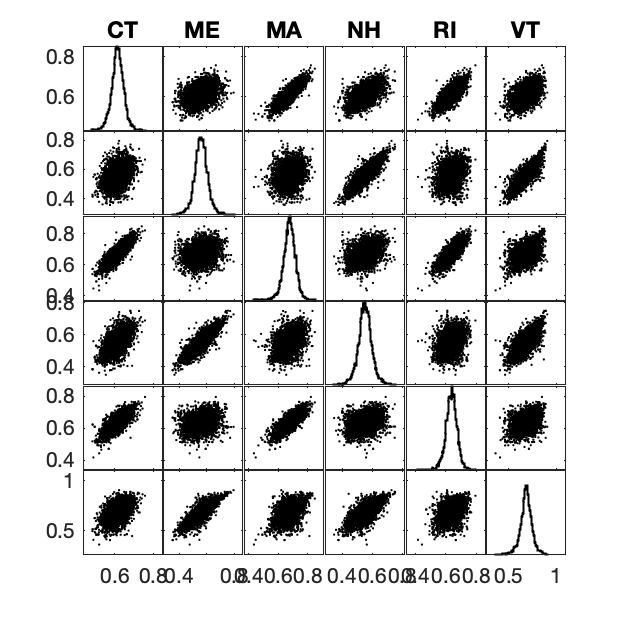
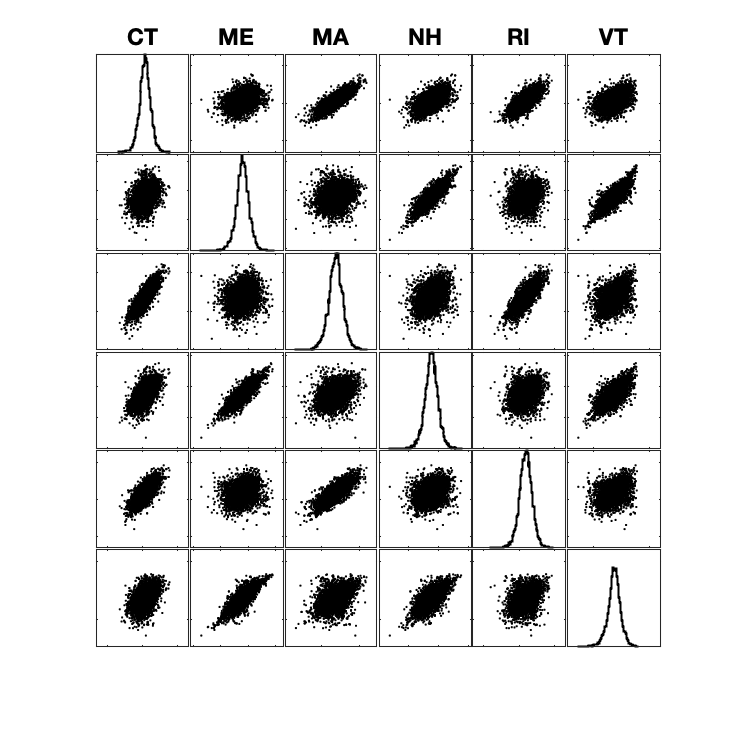
fix labels

Changed region(s): [[0.0608, 0.0304, 0.912, 0.9424]]

diff --git a/compare_models.m b/compare_models.m
@@ -111,16 +111,17 @@ saveas(f_corr, './figures/corrplots.png')
 compareStates = {'CT', 'ME', 'MA', 'NH', 'RI', 'VT'};
 nComp = length(compareStates);
 
-f_538 = figure('Renderer', 'painters', 'Position', [0 0 300 300]);
+f_538 = figure('Renderer', 'painters', 'Position', [0 0 350 350]);
 
 [S_538,AX_538,BigAx_538,H_538,HAx_538] = plotmatrix(tbl538{datasample(1:nsims, 1e4),compareStates}, '.k');
 for ii = 1:nComp; H_538(ii).DisplayStyle = 'stairs';end
 for ii = 1:nComp; H_538(ii).EdgeColor = 'k';end
 for ii = 1:nComp; H_538(ii).LineWidth = 1;end
 for ii = 1:nComp; set(get(AX_538(1,ii),'Title'),'String',compareStates{ii});end
+for ii = 1:(nComp^2); AX_538(ii).XTickLabel = [];end
+for ii = 1:(nComp^2); AX_538(ii).YTickLabel = [];end
 
-
-f_Econ = figure('Renderer', 'painters', 'Position', [0 0 300 300]);
+f_Econ = figure('Renderer', 'painters', 'Position', [0 0 350 350]);
 
 [S_Econ,AX_Econ,BigAx_Econ,H_Econ,HAx_Econ] = plotmatrix(tblEcon{datasample(1:nsims, 1e4),compareStates}, '.r');
 for ii = 1:nComp; H_Econ(ii).DisplayStyle = 'stairs';end
@@ -129,7 +130,8 @@ for ii = 1:nComp; H_Econ(ii).LineWidth = 1;end
 for ii = 1:nComp; set(get(AX_Econ(1,ii),'Title'),'String',compareStates{ii});end
 for ii = 1:nComp; HAx_Econ(ii).XLim = HAx_538(ii).XLim;end
 for ii = 1:(nComp^2); AX_Econ(ii).XLim = AX_538(ii).XLim;end
-for ii = 1:(nComp^2); AX_Econ(ii).YLim = AX_538(ii).YLim;end
+for ii = 1:(nComp^2); AX_Econ(ii).XTickLabel = [];end
+for ii = 1:(nComp^2); AX_Econ(ii).YTickLabel = [];end
 
 
 saveas(f_538, './figures/compareMulti_538.png') 
@@ -188,7 +190,7 @@ title('model selection')
 xlabel('loglik difference')
 
 
-saveas(f_modelRec, './figures/modelRecovery_538.png') 
+saveas(f_modelRec, './figures/modelRecovery.png') 
 
 
 
